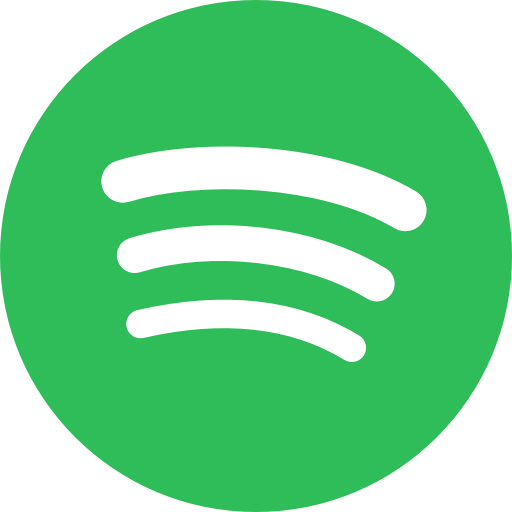
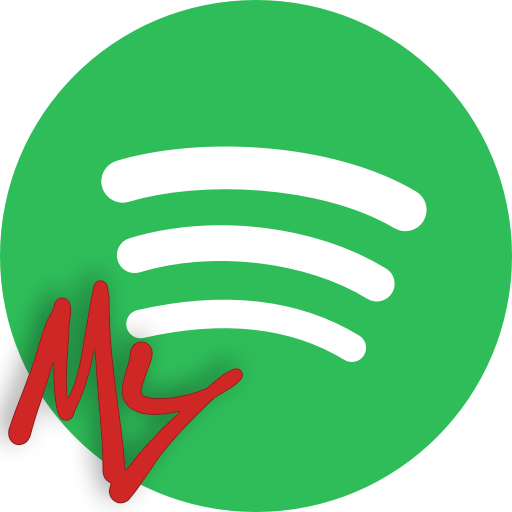
Appbar

Changed region(s): [[0.0, 0.5312, 0.5, 1.0]]

diff --git a/src/components/global/MyAppBar.js b/src/components/global/MyAppBar.js
@@ -1,20 +1,22 @@
 import React, {Component} from "react";
 import {
     AppBar,
-    Typography,
-    InputBase,
+    Avatar,
+    Toolbar,
+    IconButton,
+    Menu,
+    MenuItem,
 } from "@material-ui/core";
+import {AccountCircle} from "@material-ui/icons";
 import {connect} from "react-redux";
 import tokensActions from "../../redux/actions/tokensActions";
-import IconButton from "@material-ui/core/IconButton";
-import Menu from "@material-ui/core/Menu";
-import MenuItem from "@material-ui/core/MenuItem";
-import {AccountCircle} from "@material-ui/icons";
 import SearchBar from "./SearchBar";
 import userActions from "../../redux/actions/userActions";
+import {AppIcon} from "../../assets";
+
+import "./MyAppBar.css"
 
 class MyAppBar extends Component {
-
     constructor(props) {
         super(props);
         this.state = {
@@ -37,46 +39,57 @@ class MyAppBar extends Component {
     render() {
         return (
             <AppBar position="static">
-                <Typography>MySpotify</Typography>
-                <SearchBar history={this.props.history}/>
-                <div>
-                    {
-                        (this.props.user.myUser && Object.keys(this.props.user.myUser).length !== 0) ?
-                        <div>
-                            <IconButton
-                                aria-label="account of current user"
-                                aria-controls="menu-appbar"
-                                aria-haspopup="true"
-                                onClick={this.handleMenu}
-                                color="inherit"
-                            >
-                                {(this.props.user.myUser.images.length !== 0)
-                                    ? <img src={this.props.user.myUser.images[0]} alt={this.props.user.myUser.name}/>
-                                    : <AccountCircle/>
-                                }
-                            </IconButton>
-                            <Typography>{this.props.user.myUser.name}</Typography>
-                        </div>
-                            : null
-                    }
-                    <Menu
-                        id="menu-appbar"
-                        anchorEl={this.state.anchorEl}
-                        anchorOrigin={{
-                            vertical: 'top',
-                            horizontal: 'right',
-                        }}
-                        keepMounted
-                        transformOrigin={{
-                            vertical: 'top',
-                            horizontal: 'right',
-                        }}
-                        open={Boolean(this.state.anchorEl)}
-                        onClose={this.handleClose}
-                    >
-                        <MenuItem onClick={this.props.logout}>Logout</MenuItem>
-                    </Menu>
-                </div>
+                <Toolbar id="my-app-bar">
+                    <div className="my-spotify-icon">
+                        <a href="/">
+                            <img
+                                src={AppIcon.spotify}
+                                alt="mySpotify icon"
+                            />
+                        </a>
+                    </div>
+                    <SearchBar history={this.props.history}/>
+                    <div>
+                        {
+                            (this.props.user.myUser && Object.keys(this.props.user.myUser).length !== 0) ?
+                            <div>
+                                <IconButton
+                                    aria-label="account of current user"
+                                    aria-controls="menu-appbar"
+                                    aria-haspopup="true"
+                                    onClick={this.handleMenu}
+                                    color="inherit"
+                                >
+                                    {(this.props.user.myUser.images.length !== 0)
+                                        ? <Avatar
+                                            src={this.props.user.myUser.images[0].url}
+                                            alt={this.props.user.myUser.display_name}
+                                        />
+                                        : <AccountCircle color="white"/>
+                                    }
+                                </IconButton>
+                            </div>
+                                : null
+                        }
+                        <Menu
+                            id="menu-appbar"
+                            anchorEl={this.state.anchorEl}
+                            anchorOrigin={{
+                                vertical: 'top',
+                                horizontal: 'right',
+                            }}
+                            keepMounted
+                            transformOrigin={{
+                                vertical: 'top',
+                                horizontal: 'right',
+                            }}
+                            open={Boolean(this.state.anchorEl)}
+                            onClose={this.handleClose}
+                        >
+                            <MenuItem onClick={this.props.logout}>Logout</MenuItem>
+                        </Menu>
+                    </div>
+                </Toolbar>
             </AppBar>
         );
     }

diff --git a/src/components/global/SearchBar.js b/src/components/global/SearchBar.js
@@ -18,17 +18,26 @@ class SearchBar extends Component {
             error: null,
         }
         this.handleChange = this.handleChange.bind(this);
+        this.handleSubmit = this.handleSubmit.bind(this);
+    }
+
+    handleSubmit() {
+        if (this.state.query.length === 0) {
+            this.setState({error: "This field can't be empty"})
+        } else {
+            this.setState({error: null})
+            this.props.history.push(`/search/${this.state.type}/${this.state.query}`);
+        }
     }
 
     handleChange(event) {
-        event.persist();
         const name = event.target.name;
         this.setState({[name]: event.target.value})
     }
 
     render() {
         return (
-            <div>
+            <div className="search-bar">
                 <TextField
                     placeholder="Search"
                     value={this.state.query}
@@ -38,32 +47,48 @@ class SearchBar extends Component {
                         name: 'query',
                         id: 'searchbar-query-input'
                     }}
+                    style={{
+                        backgroundColor: "white",
+                        borderTopLeftRadius: 99,
+                        borderBottomLeftRadius: 99,
+                        paddingLeft: 12,
+                    }}
+                    onKeyPress={(event) => {
+                        console.log(event.key);
+                        if (event.key === "Enter")
+                            this.handleSubmit();
+                    }}
                 />
-                <FormControl>
-                    <InputLabel>Type</InputLabel>
-                    <Select
-                        native
-                        value={this.state.type}
-                        onChange={this.handleChange}
-                        inputProps={{
-                            name: 'type',
-                            id: 'searchbar-type-select'
-                        }}
-                    >
-                        <option value="album">Album</option>
-                        <option value="artist">Artist</option>
-                        <option value="playlist">Playlist</option>
-                        <option value="track">Track</option>
-                    </Select>
-                </FormControl>
-                <Button onClick={() => {
-                    if (this.state.query.length === 0) {
-                        this.setState({error: "This field can't be empty"})
-                    } else {
-                        this.setState({error: null})
-                        this.props.history.push(`/search/${this.state.type}/${this.state.query}`);
-                    }
-                }}>Search</Button>
+                <Select
+                    value={this.state.type}
+                    onChange={this.handleChange}
+                    inputProps={{
+                        name: 'type',
+                        id: 'searchbar-type-select'
+                    }}
+                    style={{
+                        backgroundColor: "white",
+                        borderTopRightRadius: 99,
+                        borderBottomRightRadius: 99,
+                    }}
+                >
+                    <option value="album">Album</option>
+                    <option value="artist">Artist</option>
+                    <option value="playlist">Playlist</option>
+                    <option value="track">Track</option>
+                </Select>
+                <Button
+                    variant="contained"
+                    color="primary"
+                    size="medium"
+                    style={{
+                        borderRadius: 99,
+                        fontWeight: '800',
+                        color: 'black',
+                        marginLeft: 7,
+                    }}
+                    disableElevation
+                    onClick={this.handleSubmit}>Search</Button>
             </div>
         );
     }

diff --git a/src/components/global/MyAppBar.css b/src/components/global/MyAppBar.css
@@ -1,0 +1,25 @@
+#my-app-bar {
+    background-color: darkslategrey;
+    display: flex;
+    flex: 1;
+    justify-content: space-between;
+}
+
+.test {
+    background-color: blue;
+}
+
+.my-spotify-icon {
+    display: flex;
+    flex-direction: column;
+}
+
+.my-spotify-icon img {
+    width: 60px;
+    height: 60px;
+}
+
+.my-spotify-icon a {
+    width: 60px;
+    height: 60px;
+}

diff --git a/src/routes/Home.js b/src/routes/Home.js
@@ -17,7 +17,6 @@ class Home extends Component {
         return (
             <div>
                 <MyAppBar history={this.props.history}/>
-                <SearchBar history={this.props.history}/>
                 <MyPlaylists history={this.props.history}/>
                 <TopArtists history={this.props.history}/>
                 <TopTracks history={this.props.history}/>
